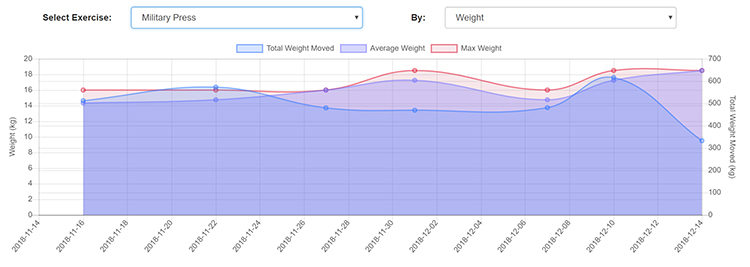
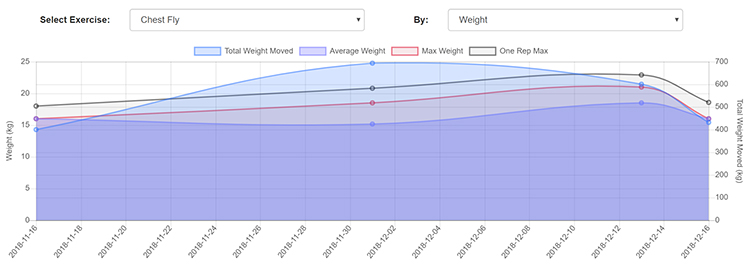
Brzycki formula for one rep max

diff --git a/static/workouttracker/js/scripts.js b/static/workouttracker/js/scripts.js
@@ -1045,6 +1045,14 @@ function history_by_exercise_chart(ctx, myChart, start_date, end_date, by="weigh
                     backgroundColor: 'rgba(175, 20, 50, 0.1)',
                     borderColor: 'rgba(225, 20, 50, 0.5)',
                 });
+        datasets.push({
+                    label: 'One Rep Max',
+                    data: data.one_rep_maxes,
+                    yAxisID: 'B',
+                    borderWidth: 2,
+                    backgroundColor: 'rgba(20, 20, 20, 0.05)',
+                    borderColor: 'rgba(20, 20, 20, 0.5)',
+                });
 
         scales = {
               yAxes: [ {

diff --git a/views.py b/views.py
@@ -15,6 +15,9 @@ import os
 import csv
 from django.db.models import Q
 
+def one_rep_max(reps, weight):
+    return round(weight * (36 / (37 - reps)), 2)
+
 def date_to_string(date):
     return str(date.year) + "-" + str(date.month).zfill(2) + "-" + str(date.day).zfill(2)
 
@@ -576,8 +579,9 @@ def HistoryByExercise(request, pk):
             workout_dict[date_str]['count'] += 1
             if workout.weight > workout_dict[date_str]['max_weight']:
                 workout_dict[date_str]['max_weight'] = workout.weight
+                workout_dict[date_str]['max_reps'] = workout.reps
         else:
-            workout_dict[date_str] = {'reps': workout.reps, 'sets': workout.sets, 'weight': workout.weight, 'total_weight': workout.weight * workout.reps * workout.sets, 'max_weight': workout.weight, 'count': 1}
+            workout_dict[date_str] = {'reps': workout.reps, 'max_reps': workout.reps, 'sets': workout.sets, 'weight': workout.weight, 'total_weight': workout.weight * workout.reps * workout.sets, 'max_weight': workout.weight, 'count': 1}
 
     sets = []
     reps = []
@@ -585,6 +589,7 @@ def HistoryByExercise(request, pk):
     counts = []
     max_weights = []
     avg_weights = []
+    one_rep_maxes = []
     # convert to lists by date
     for date in dates:
         if date in workout_dict:
@@ -594,6 +599,7 @@ def HistoryByExercise(request, pk):
             counts.append(workout_dict[date]['count'])
             max_weights.append(workout_dict[date]['max_weight'])
             avg_weights.append(workout_dict[date]['weight'] / (workout_dict[date]['count']))
+            one_rep_maxes.append(one_rep_max(workout_dict[date]['max_reps'], workout_dict[date]['max_weight']))
         else:
             sets.append(None)
             reps.append(None)
@@ -601,8 +607,9 @@ def HistoryByExercise(request, pk):
             counts.append(None)
             max_weights.append(None)
             avg_weights.append(None)
+            one_rep_maxes.append(None)
 
-    return JsonResponse({'dates': dates, 'exercises': workout_dict, 'sets': sets, 'reps': reps, 'avg_weights': avg_weights,  'total_weights': total_weights, 'counts': counts, 'max_weights': max_weights, 'units': user.workout_user.unit_type}, safe=False)
+    return JsonResponse({'dates': dates, 'exercises': workout_dict, 'sets': sets, 'reps': reps, 'avg_weights': avg_weights,  'total_weights': total_weights, 'counts': counts, 'max_weights': max_weights, 'one_rep_maxes': one_rep_maxes, 'units': user.workout_user.unit_type}, safe=False)
 
 
 def ExercisesPerformed(request):
